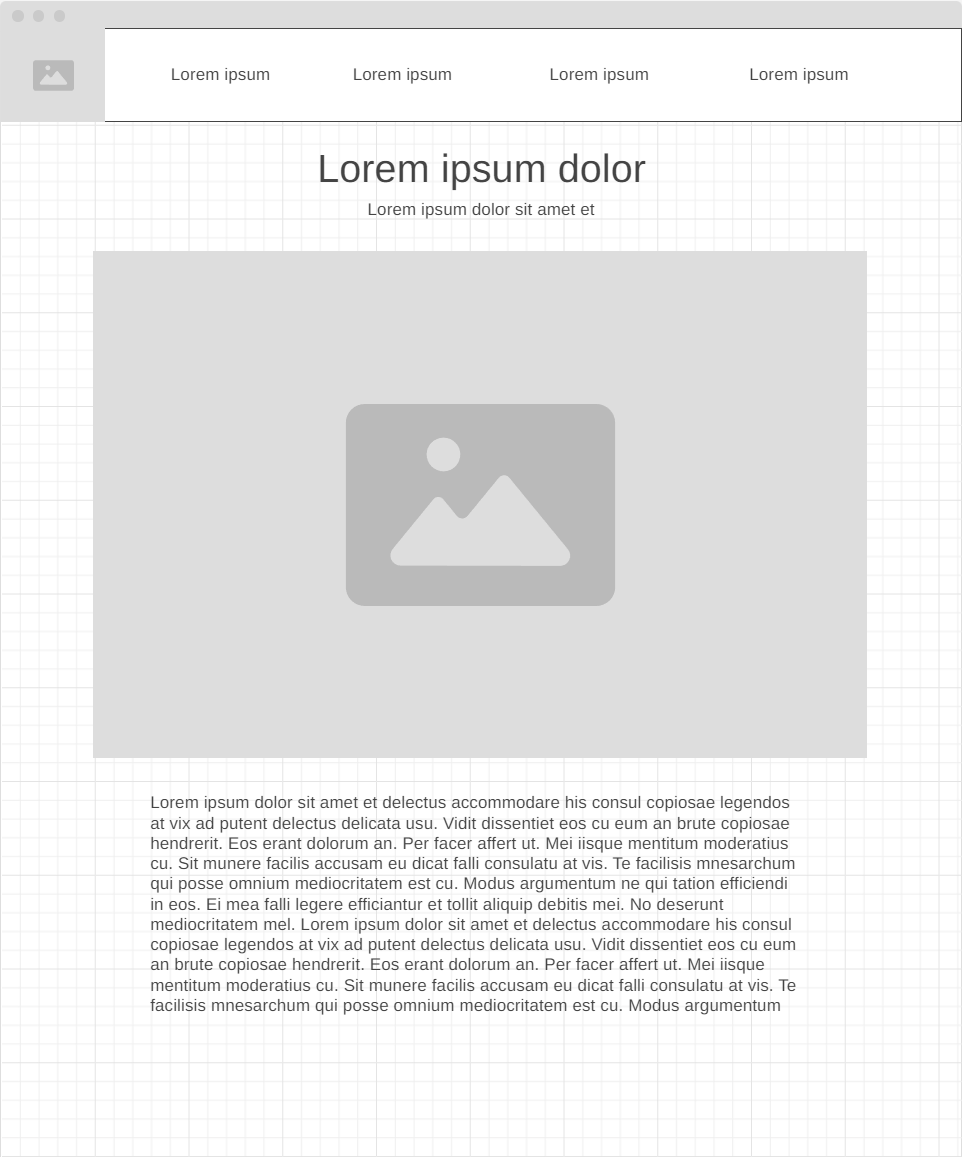
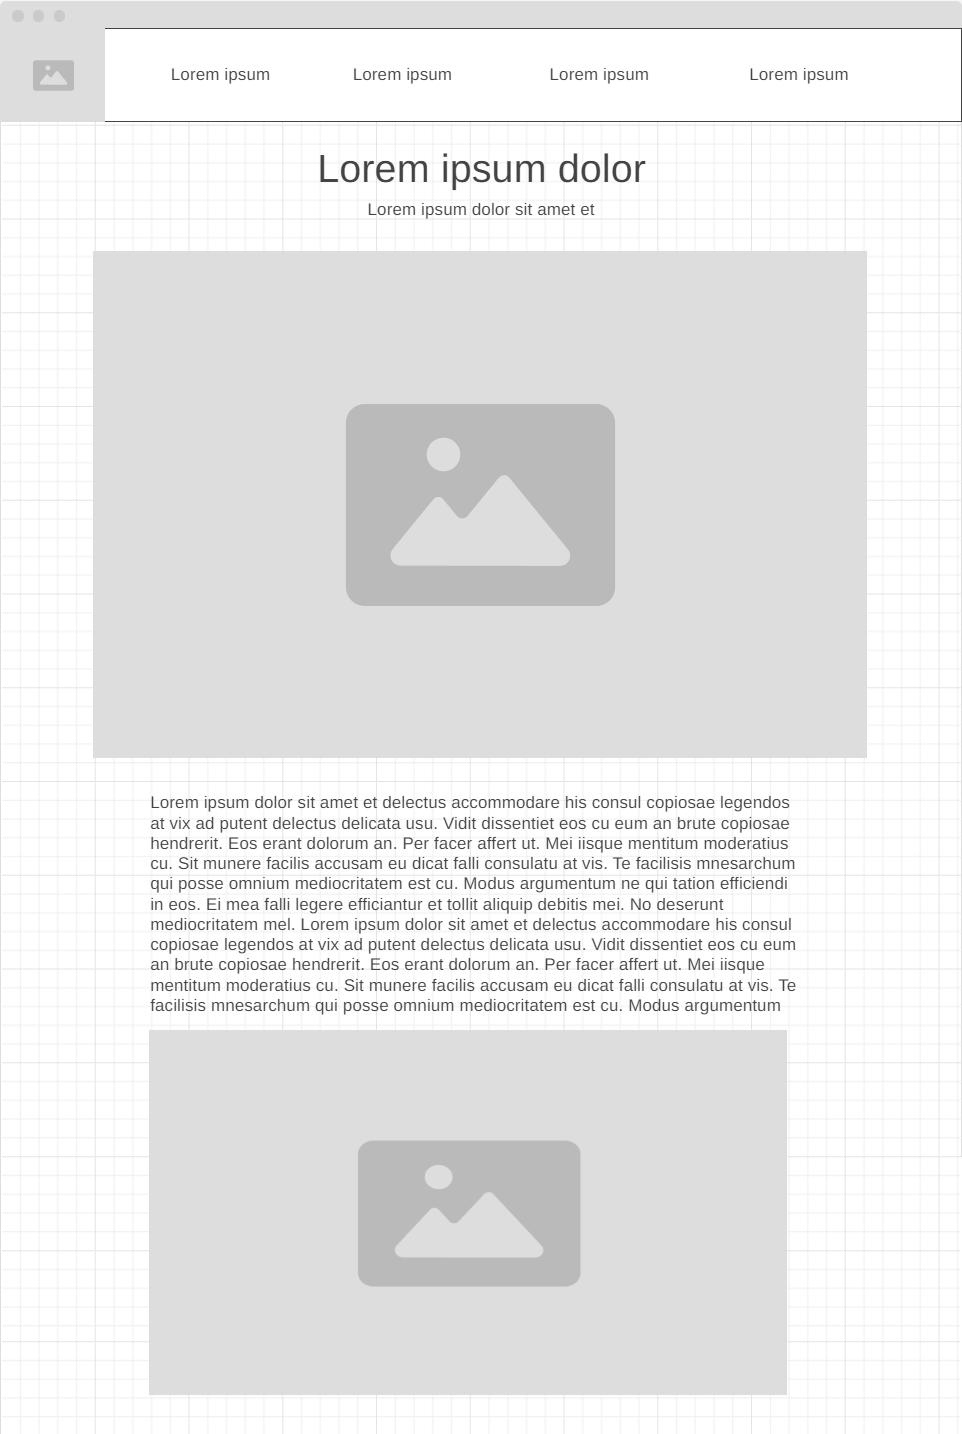
Added some images and text to site plan.

diff --git a/WDD130/AdventureGames/site-plan.html b/WDD130/AdventureGames/site-plan.html
@@ -126,16 +126,20 @@
       <h3>Home page</h3>
       <p>
         Welcome to our text-based adventure hub, where the realms of imagination await your exploration! If you're a lover of immersive storytelling, decision-making thrills, and embarking on epic journeys from the comfort of your screen, you've come to the right place. Our website is designed for those seeking engaging narrative experiences, where every choice you make shapes the course of your adventure.
-      </p>
+      <br><br>As you step into our virtual realm, you'll find yourself greeted by a vibrant and inviting home page, beckoning you to dive into the worlds we've crafted. Whether you're a seasoned adventurer or a newcomer to the genre, our games offer something for everyone. From thrilling mysteries to fantastical realms, each adventure is an invitation to unleash your imagination and chart your own path.
+      <br><br>To fully enjoy our immersive adventures, visitors may want to complete activities such as exploring different story paths, uncovering hidden secrets, and sharing their experiences with fellow players. Additionally, they may seek information on upcoming releases, developer insights, and tips for maximizing their gaming experience.  
+    </p>
       <p>Images for the Home page</p>
+        <img src="images/Designer(5).jpg" alt="image for homepage">
         <img src="images/Designer(1).jpeg" alt="image for homepage">
-        <img src="#" alt="image for homepage">
 
       </ul>
       <h3>Play the Game</h3>
       <p>
         Our Games page serves as your gateway to boundless adventures. Here, you'll discover a diverse collection of text-based experiences, each with its own unique story to unravel and challenges to overcome. Whether you're in the mood for a pulse-pounding thriller, a whimsical fantasy, or a thought-provoking mystery, our games span a wide range of genres to cater to every taste.
-      </p>
+      <br><br>To facilitate these activities, our website provides essential information such as detailed game descriptions, intuitive navigation, developer biographies, and community forums where players can connect and share their experiences. By offering a user-friendly interface, engaging content, and a vibrant community atmosphere, we strive to make our website the premier destination for text-based adventure enthusiasts.
+      <br><br>Visitors to our site can expect to embark on thrilling adventures, engage in thought-provoking decision-making, and immerse themselves in richly detailed worlds—all from the comfort of their browser. Whether they're exploring ancient ruins, solving perplexing mysteries, or navigating the treacherous waters of political intrigue, our games offer endless opportunities for discovery and excitement.  
+    </p>
       <p>Images for the Page 2</p>
         <img src="images/Designer(2).jpeg" alt="image for page">
         <img src="images/Designer(3).jpeg" alt="image for page">
@@ -144,10 +148,12 @@
       <h3>About Us</h3>
       <p>
         Curious about the masterminds behind these captivating tales? Look no further than our About Us page, where we pull back the curtain to reveal the creative minds responsible for bringing these worlds to life. Learn about our passion for storytelling, our dedication to crafting unforgettable experiences, and our commitment to fostering a community of fellow adventurers.
+        <br><br>But what sets our website apart from the myriad of others vying for your attention? It's simple—we're not just offering games; we're inviting you on an immersive journey where every decision you make has consequences. Our interactive narratives are more than just entertainment—they're opportunities for self-discovery, critical thinking, and creative expression.
+        <br><br>When visitors come to our site, they come seeking escapism, entertainment, and the thrill of exploration. They want to be transported to far-off lands, confront moral dilemmas, and experience the excitement of shaping their own destiny. Our website answers their questions by providing a platform where they can easily access a variety of captivating adventures, learn about the minds behind the stories, and connect with a community of like-minded individuals who share their love for interactive storytelling.
       </p>
       <p>Images for the Page 3</p>
         <img src="images/Designer.jpeg" alt="image for page3">
-        <img src="#" alt="image for page3">
+        <img src="images/Designer(4).jpg" alt="image for page3">
 
       </ul>
       <hr>
